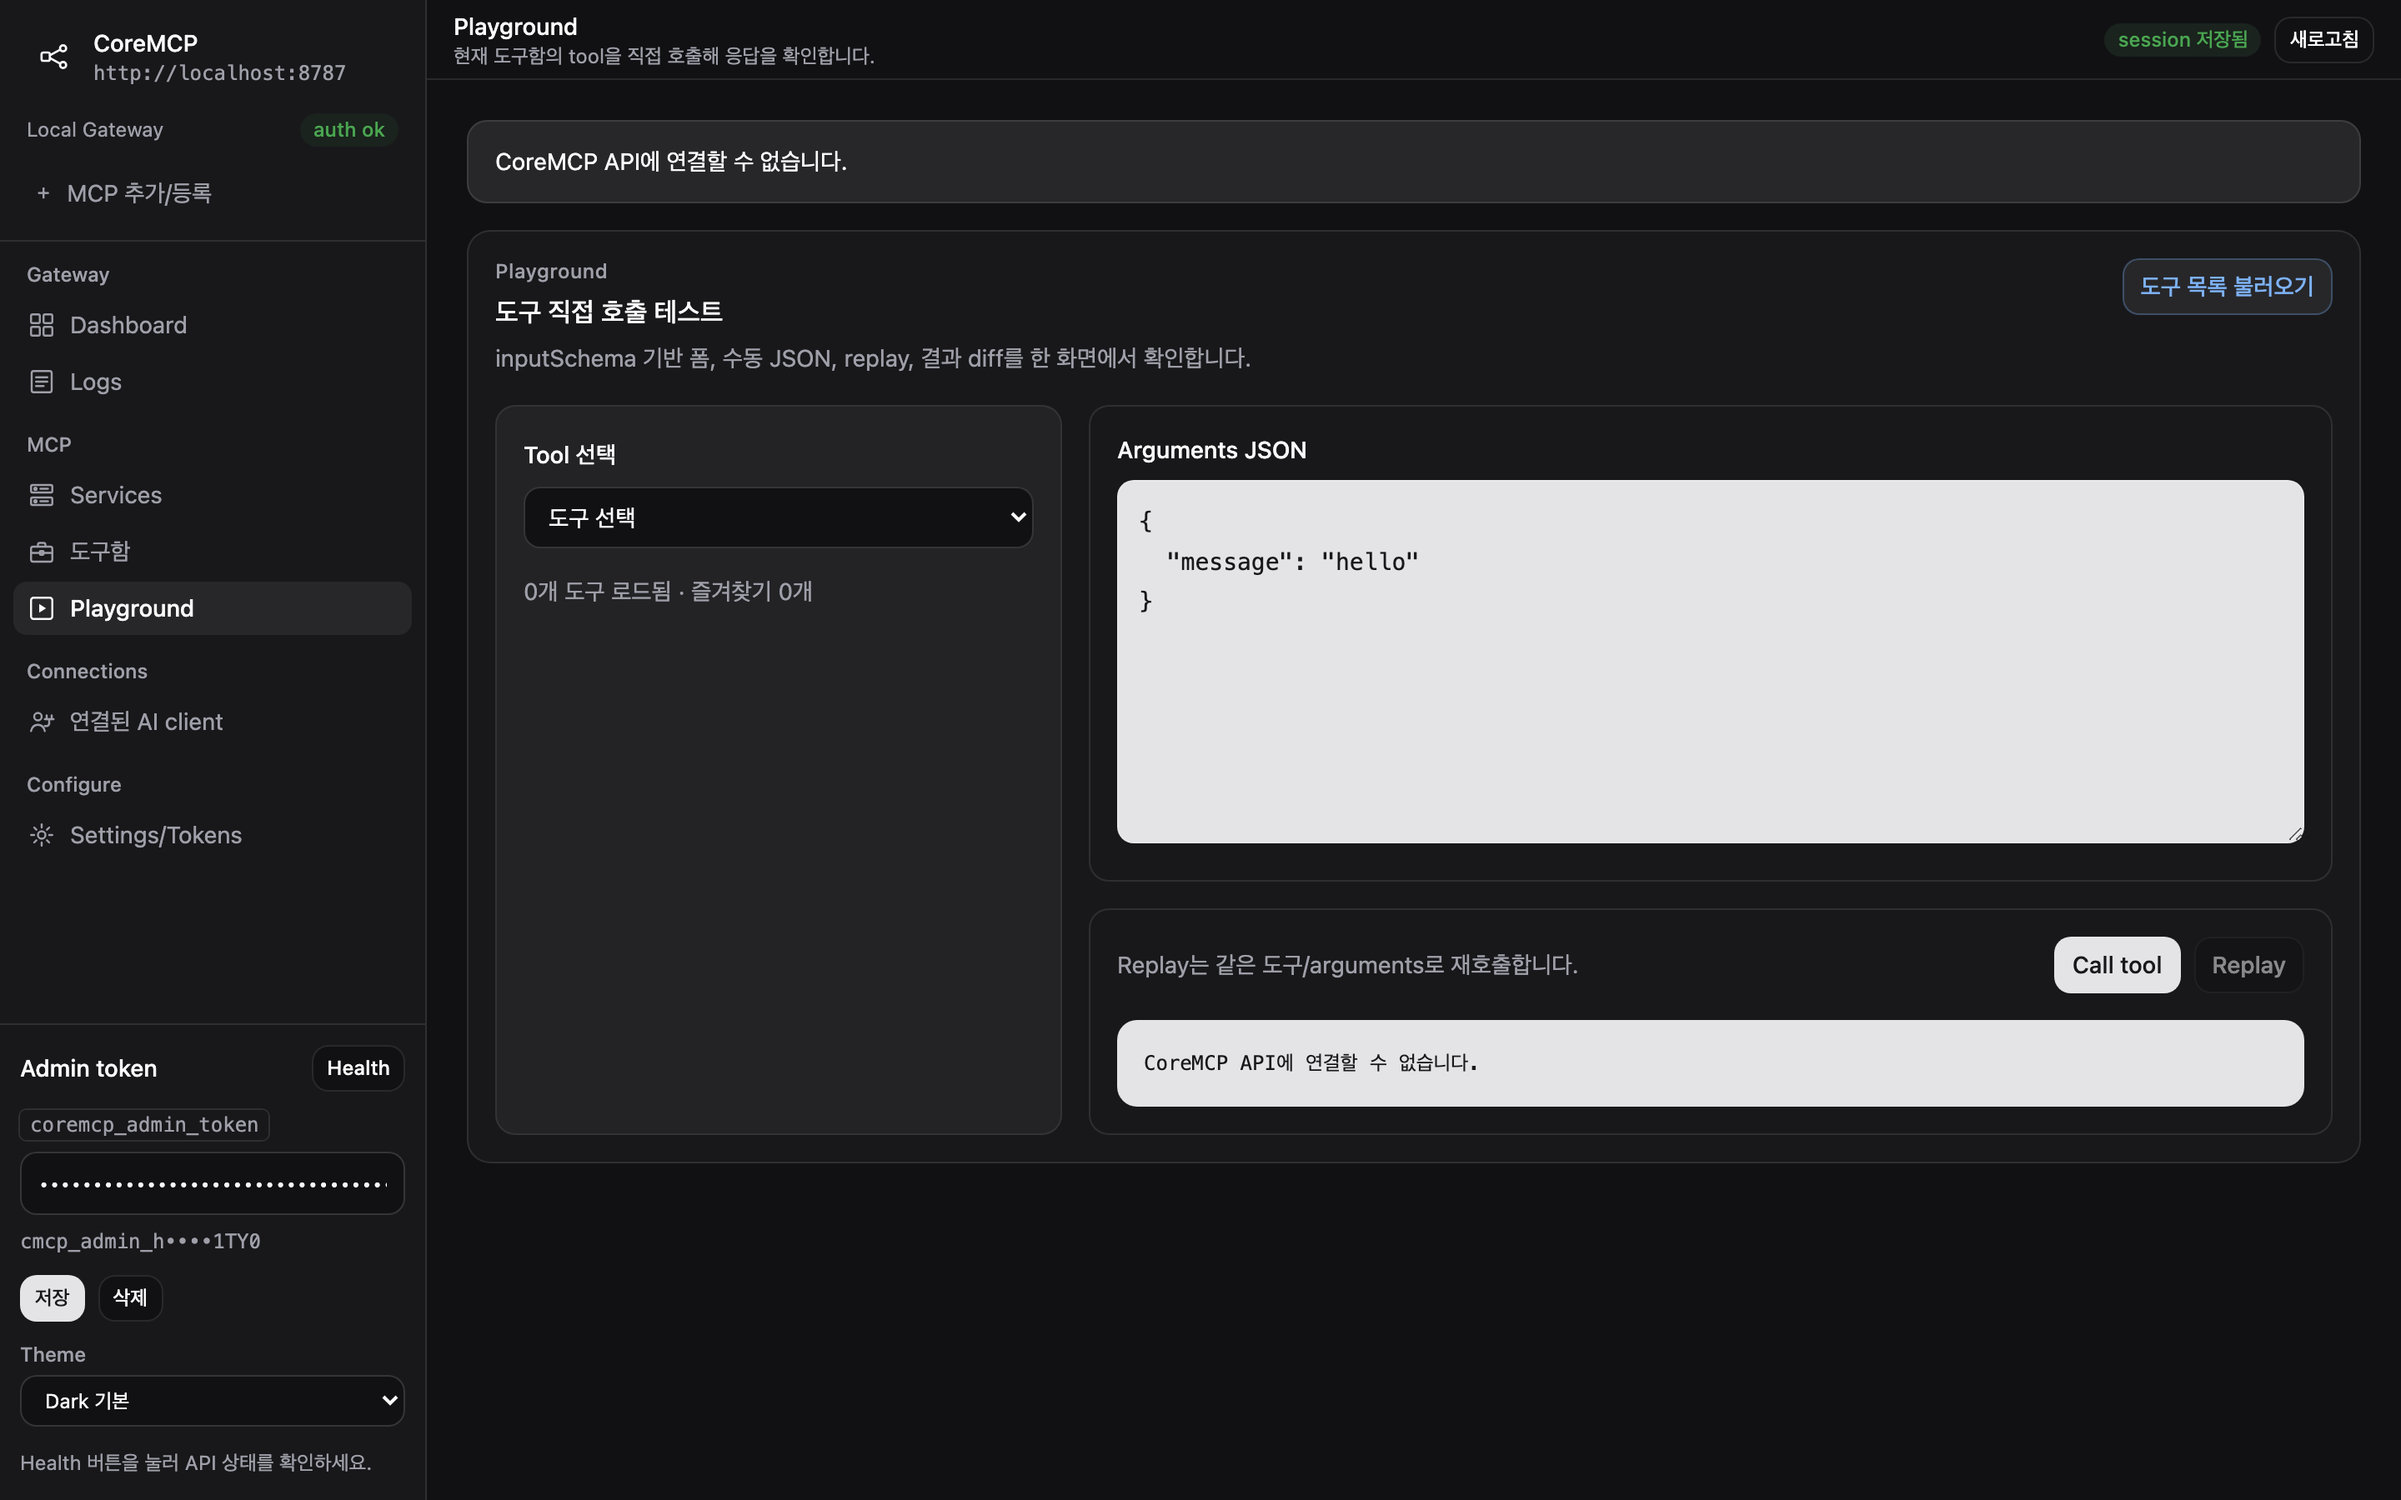
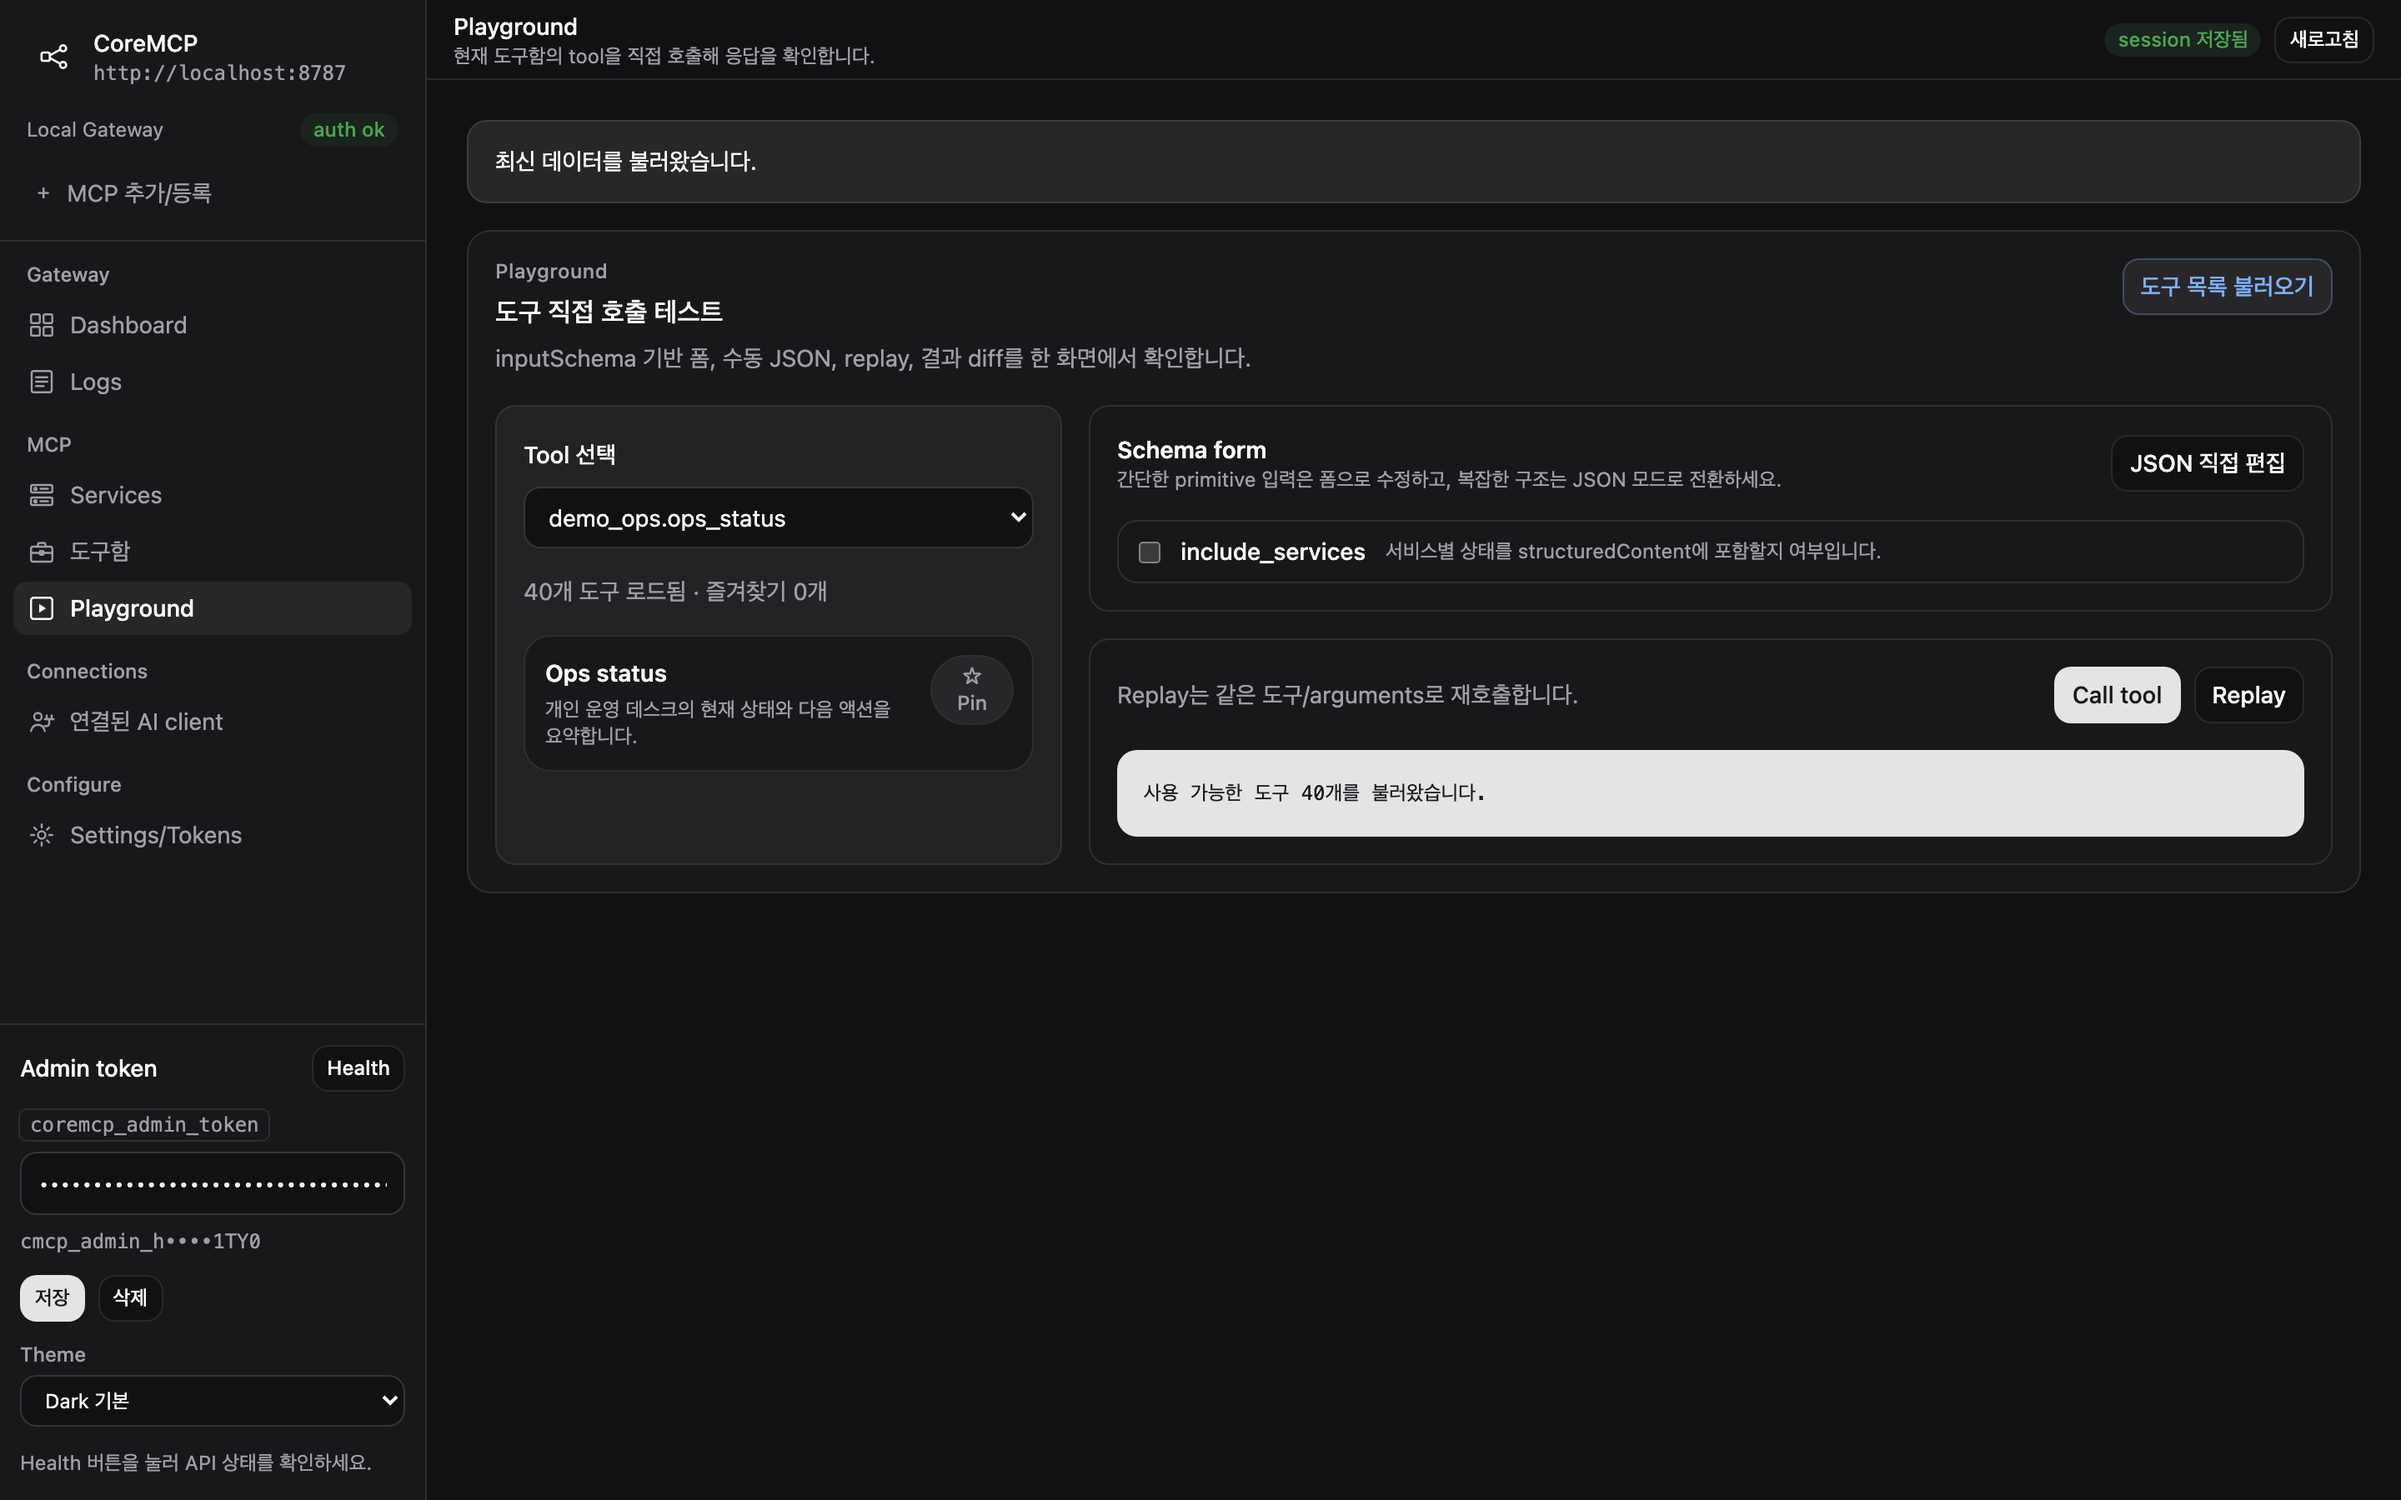
docs(web): refresh playground screen reference

diff --git a/README.md b/README.md
@@ -148,7 +148,7 @@ Default 도구함의 가시 상태 — 등록된 서비스마다 service-level e
 
 ![Playground](coremcp-docs/screenshots/web-admin/05-playground.png)
 
-도구함의 도구를 admin 권한으로 직접 호출 — dropdown 에서 도구 선택 → Arguments JSON 편집(catalog 캐시된 inputSchema 기반 검증) → `Call tool` → 응답 JSON(jsonrpc.result.content + structuredContent + isError + `_meta.coremcp`) 표시. 캡쳐는 `demo_ops.ops_status` 호출 결과 (`Personal Ops Desk status: warning; 2 checklist items need attention.`) 를 보여줍니다.
+도구함의 도구를 admin 권한으로 직접 호출 — Tool 선택 dropdown(40 tools, `★ Pin` 즐겨찾기), 선택된 도구의 설명·요약 카드, **catalog 캐시된 inputSchema 기반 자동 Schema form** (또는 `JSON 직접 편집` 토글로 raw 모드), 실행 후 응답 JSON 표시, `Replay` 로 동일 args 재호출. 캡쳐는 `demo_ops.ops_status` 를 선택해 `include_services` boolean primitive 가 Schema form 으로 자동 렌더링된 상태입니다.
 
 ### 6. Connected AI client `/clients`
 
